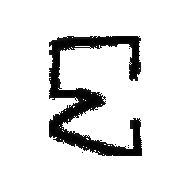
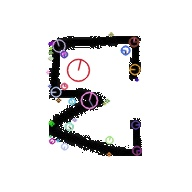
Result keypoint

diff --git a/templates/index.html b/templates/index.html
@@ -39,7 +39,7 @@
 
 					<!-- Display Preprocessed Image -->
 					<div class="w-1/2 pl-2">
-						<h2 class="text-sm font-semibold text-center mb-2">Hasil Prapemrosesan</h2>
+						<h2 class="text-sm font-semibold text-center mb-2">Hasil keypoint</h2>
 						{% if uploaded_image %}
 						<img
 							src="{{ url_for('send_preprocessed_image', filename=preprocessed_image) }}"

diff --git a/classifier.py b/classifier.py
@@ -35,10 +35,13 @@ def preprocess_image(filepath):
     img = cv2.cvtColor(img, cv2.COLOR_BGR2GRAY)
     centered = center_handwritten_image(img)
     equalized = cv2.equalizeHist(centered)
+    sift = cv2.SIFT_create()
+    keypoints, _ = sift.detectAndCompute(equalized, None)
+    img_with_keypoints = cv2.drawKeypoints(equalized, keypoints, None, flags=cv2.DRAW_MATCHES_FLAGS_DRAW_RICH_KEYPOINTS)
     original_name = os.path.splitext(os.path.basename(filepath))[0]
     preprocessed_path = os.path.join("static/results", f"processed_image_{original_name}.jpg")
-    cv2.imwrite(preprocessed_path, equalized)
-    return preprocessed_path, equalized
+    cv2.imwrite(preprocessed_path, img_with_keypoints)
+    return preprocessed_path, img_with_keypoints
 
 def create_feature_bow(image_descriptor, bow, num_cluster):
     features = np.zeros(num_cluster, dtype=float)
